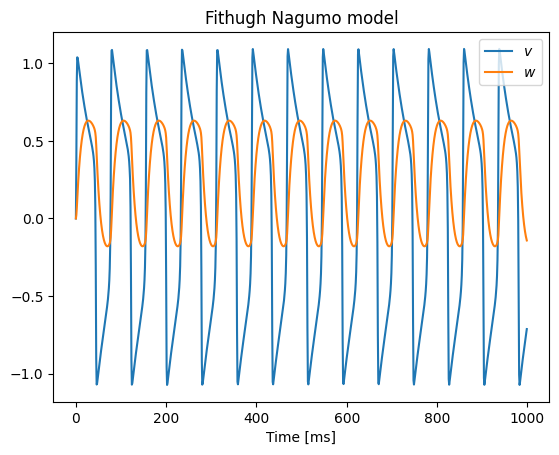
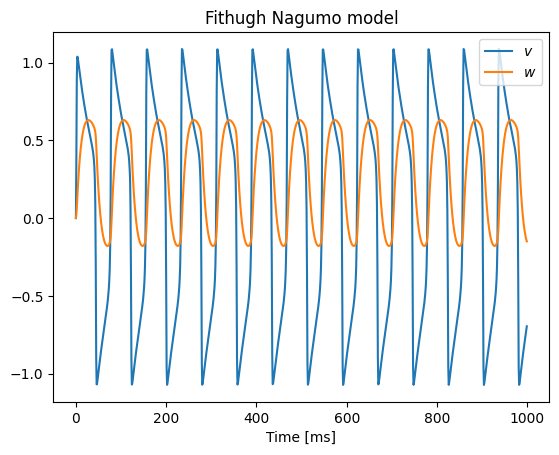
deploy: 358ac28bea835ae762a58f60946429a6d263bac7

diff --git a/_static/copybutton.js b/_static/copybutton.js
@@ -102,18 +102,25 @@ const clearSelection = () => {
   }
 }
 
-// Changes tooltip text for two seconds, then changes it back
+// Changes tooltip text for a moment, then changes it back
+// We want the timeout of our `success` class to be a bit shorter than the
+// tooltip and icon change, so that we can hide the icon before changing back.
+var timeoutIcon = 2000;
+var timeoutSuccessClass = 1500;
+
 const temporarilyChangeTooltip = (el, oldText, newText) => {
   el.setAttribute('data-tooltip', newText)
   el.classList.add('success')
-  setTimeout(() => el.setAttribute('data-tooltip', oldText), 2000)
-  setTimeout(() => el.classList.remove('success'), 2000)
+  // Remove success a little bit sooner than we change the tooltip
+  // So that we can use CSS to hide the copybutton first
+  setTimeout(() => el.classList.remove('success'), timeoutSuccessClass)
+  setTimeout(() => el.setAttribute('data-tooltip', oldText), timeoutIcon)
 }
 
 // Changes the copy button icon for two seconds, then changes it back
 const temporarilyChangeIcon = (el) => {
   el.innerHTML = iconCheck;
-  setTimeout(() => {el.innerHTML = iconCopy}, 2000)
+  setTimeout(() => {el.innerHTML = iconCopy}, timeoutIcon)
 }
 
 const addCopyButtonToCodeCells = () => {
@@ -125,7 +132,8 @@ const addCopyButtonToCodeCells = () => {
   }
 
   // Add copybuttons to all of our code cells
-  const codeCells = document.querySelectorAll('div.highlight pre')
+  const COPYBUTTON_SELECTOR = 'div.highlight pre';
+  const codeCells = document.querySelectorAll(COPYBUTTON_SELECTOR)
   codeCells.forEach((codeCell, index) => {
     const id = codeCellId(index)
     codeCell.setAttribute('id', id)
@@ -141,10 +149,25 @@ function escapeRegExp(string) {
     return string.replace(/[.*+?^${}()|[\]\\]/g, '\\$&'); // $& means the whole matched string
 }
 
+/**
+ * Removes excluded text from a Node.
+ *
+ * @param {Node} target Node to filter.
+ * @param {string} exclude CSS selector of nodes to exclude.
+ * @returns {DOMString} Text from `target` with text removed.
+ */
+function filterText(target, exclude) {
+    const clone = target.cloneNode(true);  // clone as to not modify the live DOM
+    if (exclude) {
+        // remove excluded nodes
+        clone.querySelectorAll(exclude).forEach(node => node.remove());
+    }
+    return clone.innerText;
+}
+
 // Callback when a copy button is clicked. Will be passed the node that was clicked
 // should then grab the text and replace pieces of text that shouldn't be used in output
 function formatCopyText(textContent, copybuttonPromptText, isRegexp = false, onlyCopyPromptLines = true, removePrompts = true, copyEmptyLines = true, lineContinuationChar = "", hereDocDelim = "") {
-
     var regexp;
     var match;
 
@@ -199,7 +222,12 @@ function formatCopyText(textContent, copybuttonPromptText, isRegexp = false, onl
 
 var copyTargetText = (trigger) => {
   var target = document.querySelector(trigger.attributes['data-clipboard-target'].value);
-  return formatCopyText(target.innerText, '', false, true, true, true, '', '')
+
+  // get filtered text
+  let exclude = '.linenos, .gp';
+
+  let text = filterText(target, exclude);
+  return formatCopyText(text, '', false, true, true, true, '', '')
 }
 
   // Initialize with a callback so we can modify the text before copy

diff --git a/demo_fitzhugh_nagumo.html b/demo_fitzhugh_nagumo.html
@@ -428,8 +428,8 @@ title="Print to PDF"
 <p>The FHN Model is an example of a relaxation oscillator because, if the external stimulus  <span class="math notranslate nohighlight">\(I_{\text{ext}}\)</span> exceeds a certain threshold value, the system will exhibit a characteristic excursion in phase space, before the variables <span class="math notranslate nohighlight">\(v\)</span> and <span class="math notranslate nohighlight">\(w\)</span> relax back to their rest values.</p>
 <p>This behaviour is typical for spike generations (a short, nonlinear elevation of membrane voltage <span class="math notranslate nohighlight">\(v\)</span>, diminished over time by a slower, linear recovery variable <span class="math notranslate nohighlight">\(w\)</span>) in a neuron after stimulation by an external input current.</p>
 <p>The equations for this dynamical system read</p>
-<div class="amsmath math notranslate nohighlight" id="equation-f48d5216-ebba-411c-b8bf-e6e93d352fc3">
-<span class="eqno">(1)<a class="headerlink" href="#equation-f48d5216-ebba-411c-b8bf-e6e93d352fc3" title="Permalink to this equation">#</a></span>\[\begin{align}
+<div class="amsmath math notranslate nohighlight" id="equation-9c9d06ba-89ca-4ce0-915a-dd459622adc0">
+<span class="eqno">(1)<a class="headerlink" href="#equation-9c9d06ba-89ca-4ce0-915a-dd459622adc0" title="Permalink to this equation">#</a></span>\[\begin{align}
 \dot{v} &amp;= v - \frac{v^3}{3} -w + RI_{\text{ext}} \\
 \tau \dot{w} &amp;= v + a - bw 
 \end{align}\]</div>
@@ -535,7 +535,7 @@ title="Print to PDF"
 </div>
 </div>
 <div class="cell_output docutils container">
-<div class="output stream highlight-myst-ansi notranslate"><div class="highlight"><pre><span></span>[Beat(t=(61,), y=(61,)), Beat(t=(79,), y=(79,)), Beat(t=(80,), y=(80,)), Beat(t=(80,), y=(80,)), Beat(t=(81,), y=(81,)), Beat(t=(80,), y=(80,)), Beat(t=(80,), y=(80,)), Beat(t=(80,), y=(80,)), Beat(t=(80,), y=(80,)), Beat(t=(80,), y=(80,)), Beat(t=(80,), y=(80,)), Beat(t=(80,), y=(80,)), Beat(t=(80,), y=(80,))]
+<div class="output stream highlight-myst-ansi notranslate"><div class="highlight"><pre><span></span>[Beat(t=(61,), y=(61,)), Beat(t=(80,), y=(80,)), Beat(t=(80,), y=(80,)), Beat(t=(80,), y=(80,)), Beat(t=(80,), y=(80,)), Beat(t=(81,), y=(81,)), Beat(t=(79,), y=(79,)), Beat(t=(80,), y=(80,)), Beat(t=(80,), y=(80,)), Beat(t=(79,), y=(79,)), Beat(t=(80,), y=(80,)), Beat(t=(80,), y=(80,)), Beat(t=(80,), y=(80,))]
 </pre></div>
 </div>
 </div>

diff --git a/_static/copybutton_funcs.js b/_static/copybutton_funcs.js
@@ -2,10 +2,25 @@ function escapeRegExp(string) {
     return string.replace(/[.*+?^${}()|[\]\\]/g, '\\$&'); // $& means the whole matched string
 }
 
+/**
+ * Removes excluded text from a Node.
+ *
+ * @param {Node} target Node to filter.
+ * @param {string} exclude CSS selector of nodes to exclude.
+ * @returns {DOMString} Text from `target` with text removed.
+ */
+export function filterText(target, exclude) {
+    const clone = target.cloneNode(true);  // clone as to not modify the live DOM
+    if (exclude) {
+        // remove excluded nodes
+        clone.querySelectorAll(exclude).forEach(node => node.remove());
+    }
+    return clone.innerText;
+}
+
 // Callback when a copy button is clicked. Will be passed the node that was clicked
 // should then grab the text and replace pieces of text that shouldn't be used in output
 export function formatCopyText(textContent, copybuttonPromptText, isRegexp = false, onlyCopyPromptLines = true, removePrompts = true, copyEmptyLines = true, lineContinuationChar = "", hereDocDelim = "") {
-
     var regexp;
     var match;
 

diff --git a/_static/copybutton.css b/_static/copybutton.css
@@ -35,7 +35,8 @@ div.highlight  {
     position: relative;
 }
 
-.highlight:hover button.copybtn {
+/* Show the copybutton */
+.highlight:hover button.copybtn, button.copybtn.success {
 	opacity: 1;
 }
 
